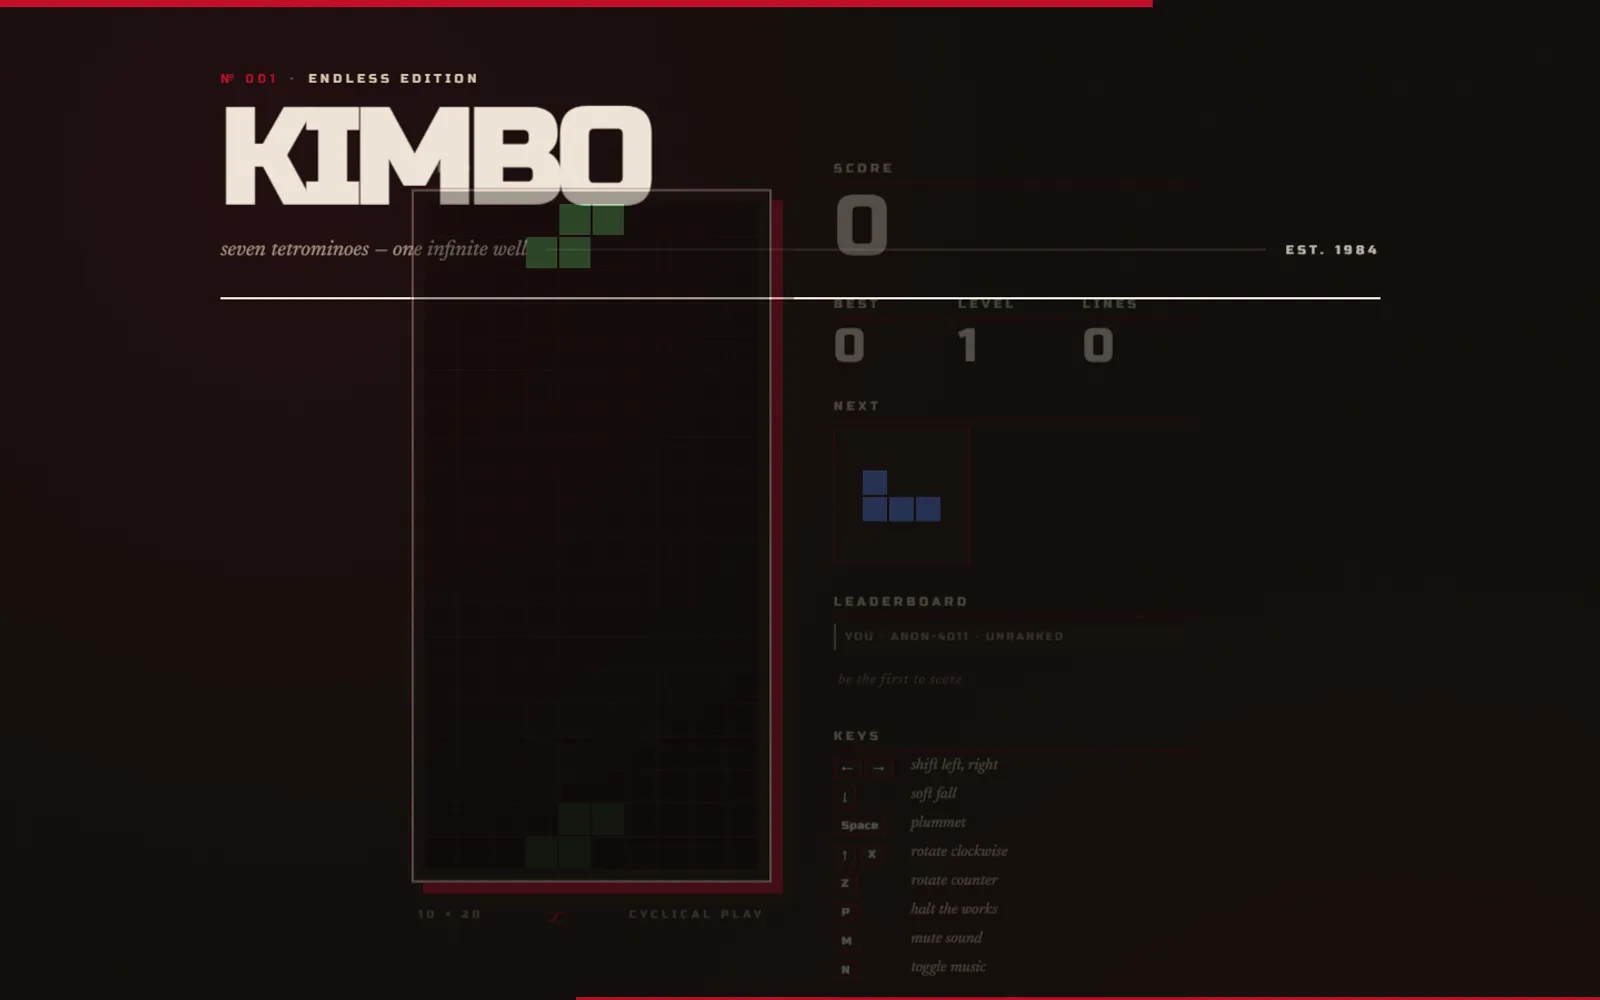
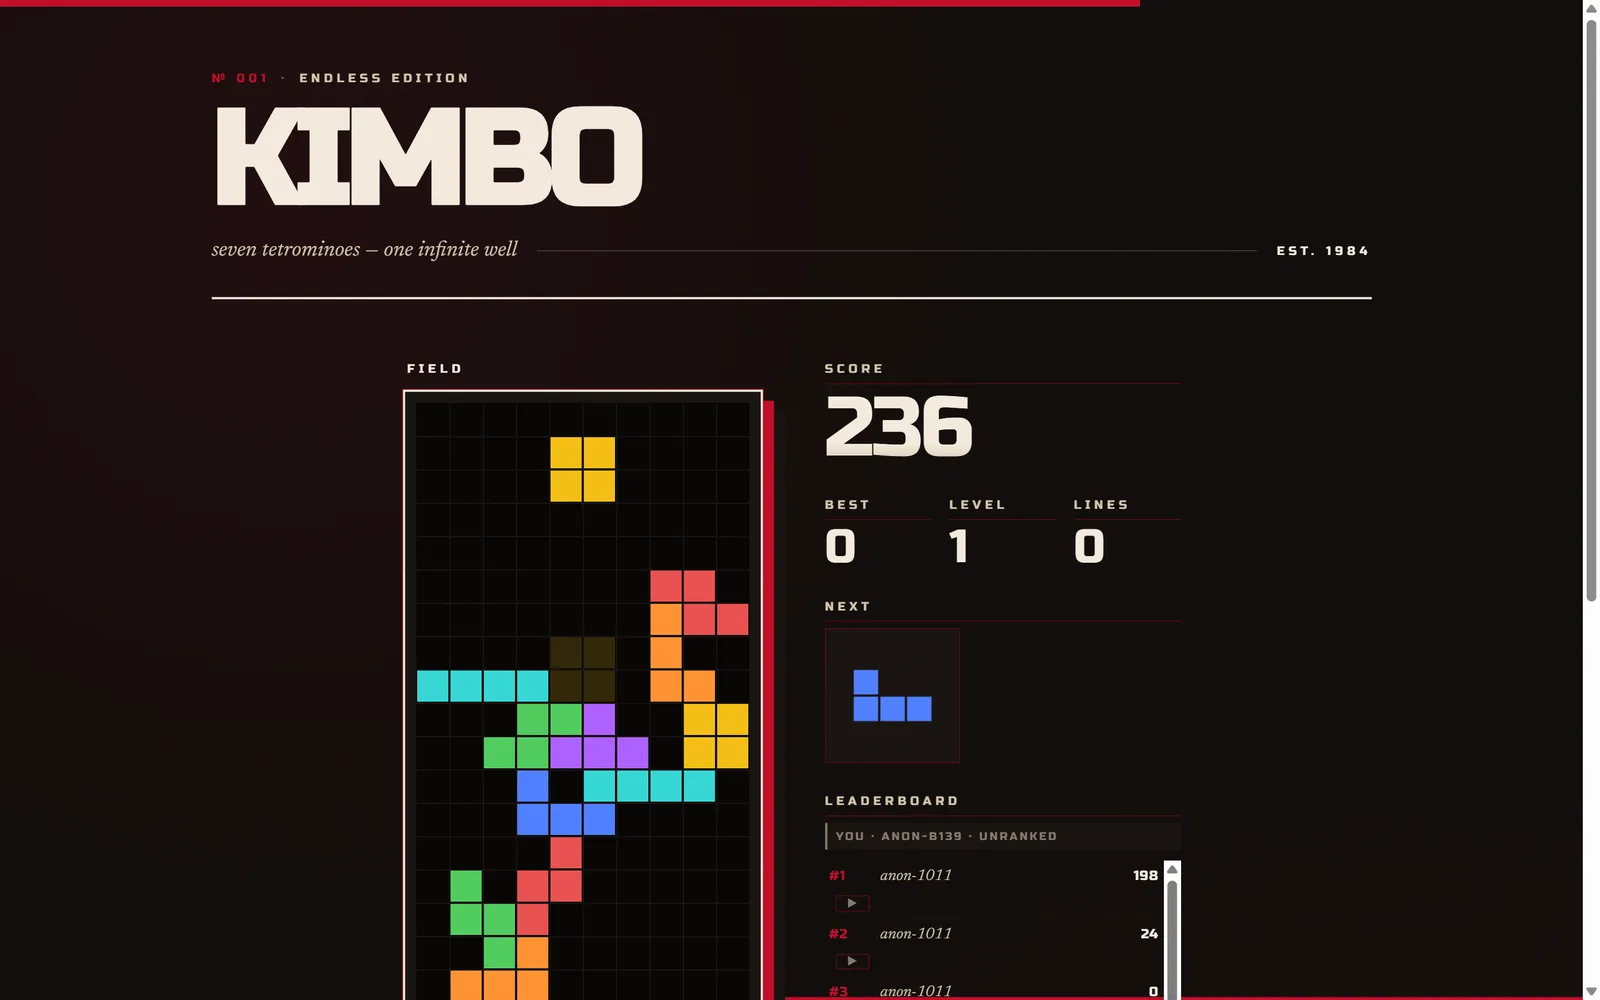
Use an actual gameplay screenshot for kimbo
Replaces the empty paused board with a mid-game shot — colorful stack, score,
and leaderboard — so the project reads as a real game. Cache-busted the image
reference (?v=2) so the new shot shows immediately.

diff --git a/index.html b/index.html
@@ -65,7 +65,7 @@
                 <span class="browser-frame__dots" aria-hidden="true"><i></i><i></i><i></i></span>
                 <span class="browser-frame__url">kimbo.up.railway.app</span>
               </div>
-              <img class="browser-frame__img" style="--obj: left top" src="assets/projects/kimbo.webp" width="1600" height="1000" loading="lazy" decoding="async" alt="Kimbo &mdash; dark editorial browser Tetris UI with leaderboard" />
+              <img class="browser-frame__img" style="--obj: left top" src="assets/projects/kimbo.webp?v=2" width="1600" height="1000" loading="lazy" decoding="async" alt="Kimbo &mdash; dark editorial browser Tetris UI with leaderboard" />
             </figure>
           </div>
           <div class="feature__text reveal">

diff --git a/work/kimbo.html b/work/kimbo.html
@@ -52,7 +52,7 @@
           <span class="browser-frame__dots" aria-hidden="true"><i></i><i></i><i></i></span>
           <span class="browser-frame__url">kimbo.up.railway.app</span>
         </div>
-        <img class="browser-frame__img" style="--obj: left top" src="../assets/projects/kimbo.webp" width="1600" height="1000" decoding="async" alt="Kimbo's dark editorial board and live leaderboard" />
+        <img class="browser-frame__img" style="--obj: left top" src="../assets/projects/kimbo.webp?v=2" width="1600" height="1000" decoding="async" alt="Kimbo's dark editorial board and live leaderboard" />
       </div>
       <figcaption class="figure__caption">The endless-mode board, score panel, and live global leaderboard.</figcaption>
     </figure>
